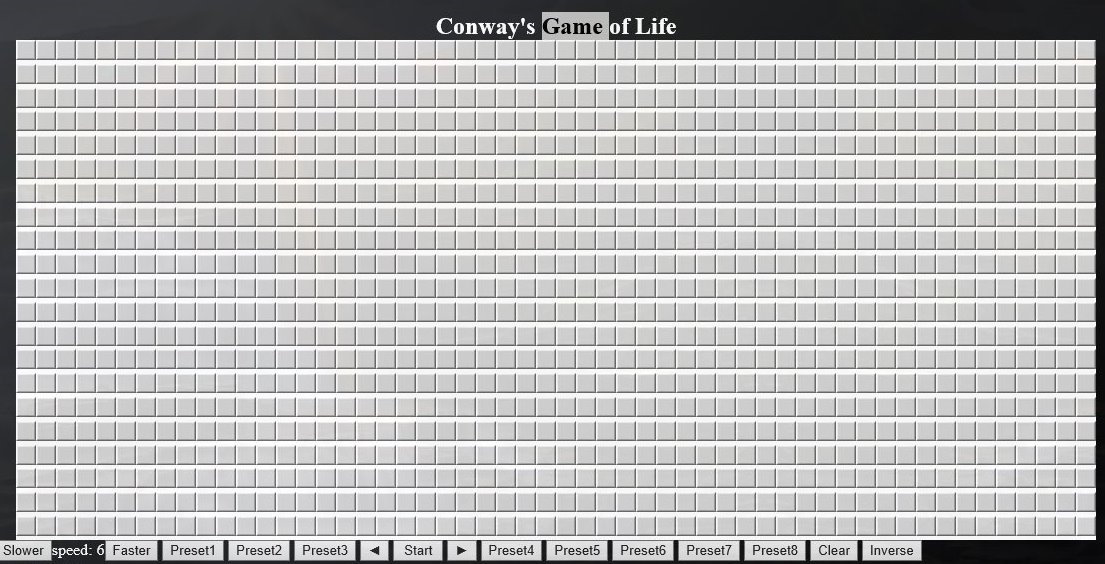
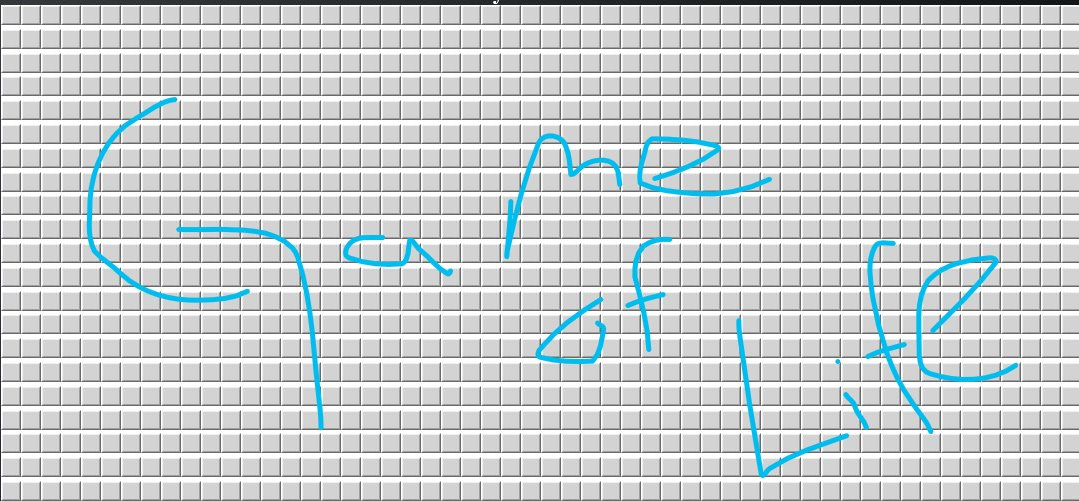
gjorde screenshot och dyligt

diff --git a/game/GameOfLife/index.html b/game/GameOfLife/index.html
@@ -50,7 +50,6 @@
                 <input type="button" value="Preset7" onclick="preset4()">
                 <input type="button" value="Preset8" onclick="preset8()">            
                 <input type="button" id="Disable5" value="Clear" onclick="clearAll()">
-                <input type="button" id="Disable5" value="Inverse" onclick="inverse()">
             </div>
         <h4 id="generation">generation: 0</h4>
             <h4> width: </h4> <input type="text" name="inputbox" maxlength="2" size="3" id="width">

diff --git a/games.html b/games.html
@@ -33,7 +33,7 @@
            <ul>
               
              <li><a href="game/luffarshack.html"> <img id="image" src="img/lsscreenshot.png" width="100%"> </a> </li>
-             <li> <a href="game/GameOfLife/index.html"> game of life </a></li>
+             <li><a href="game/GameOfLife/index.html"> <img id="image" src="img/GameOfLifeScreenshot.png" width="100%"> </a> </li>
              <li> test3 </li>
              <li> test4 </li>
               
